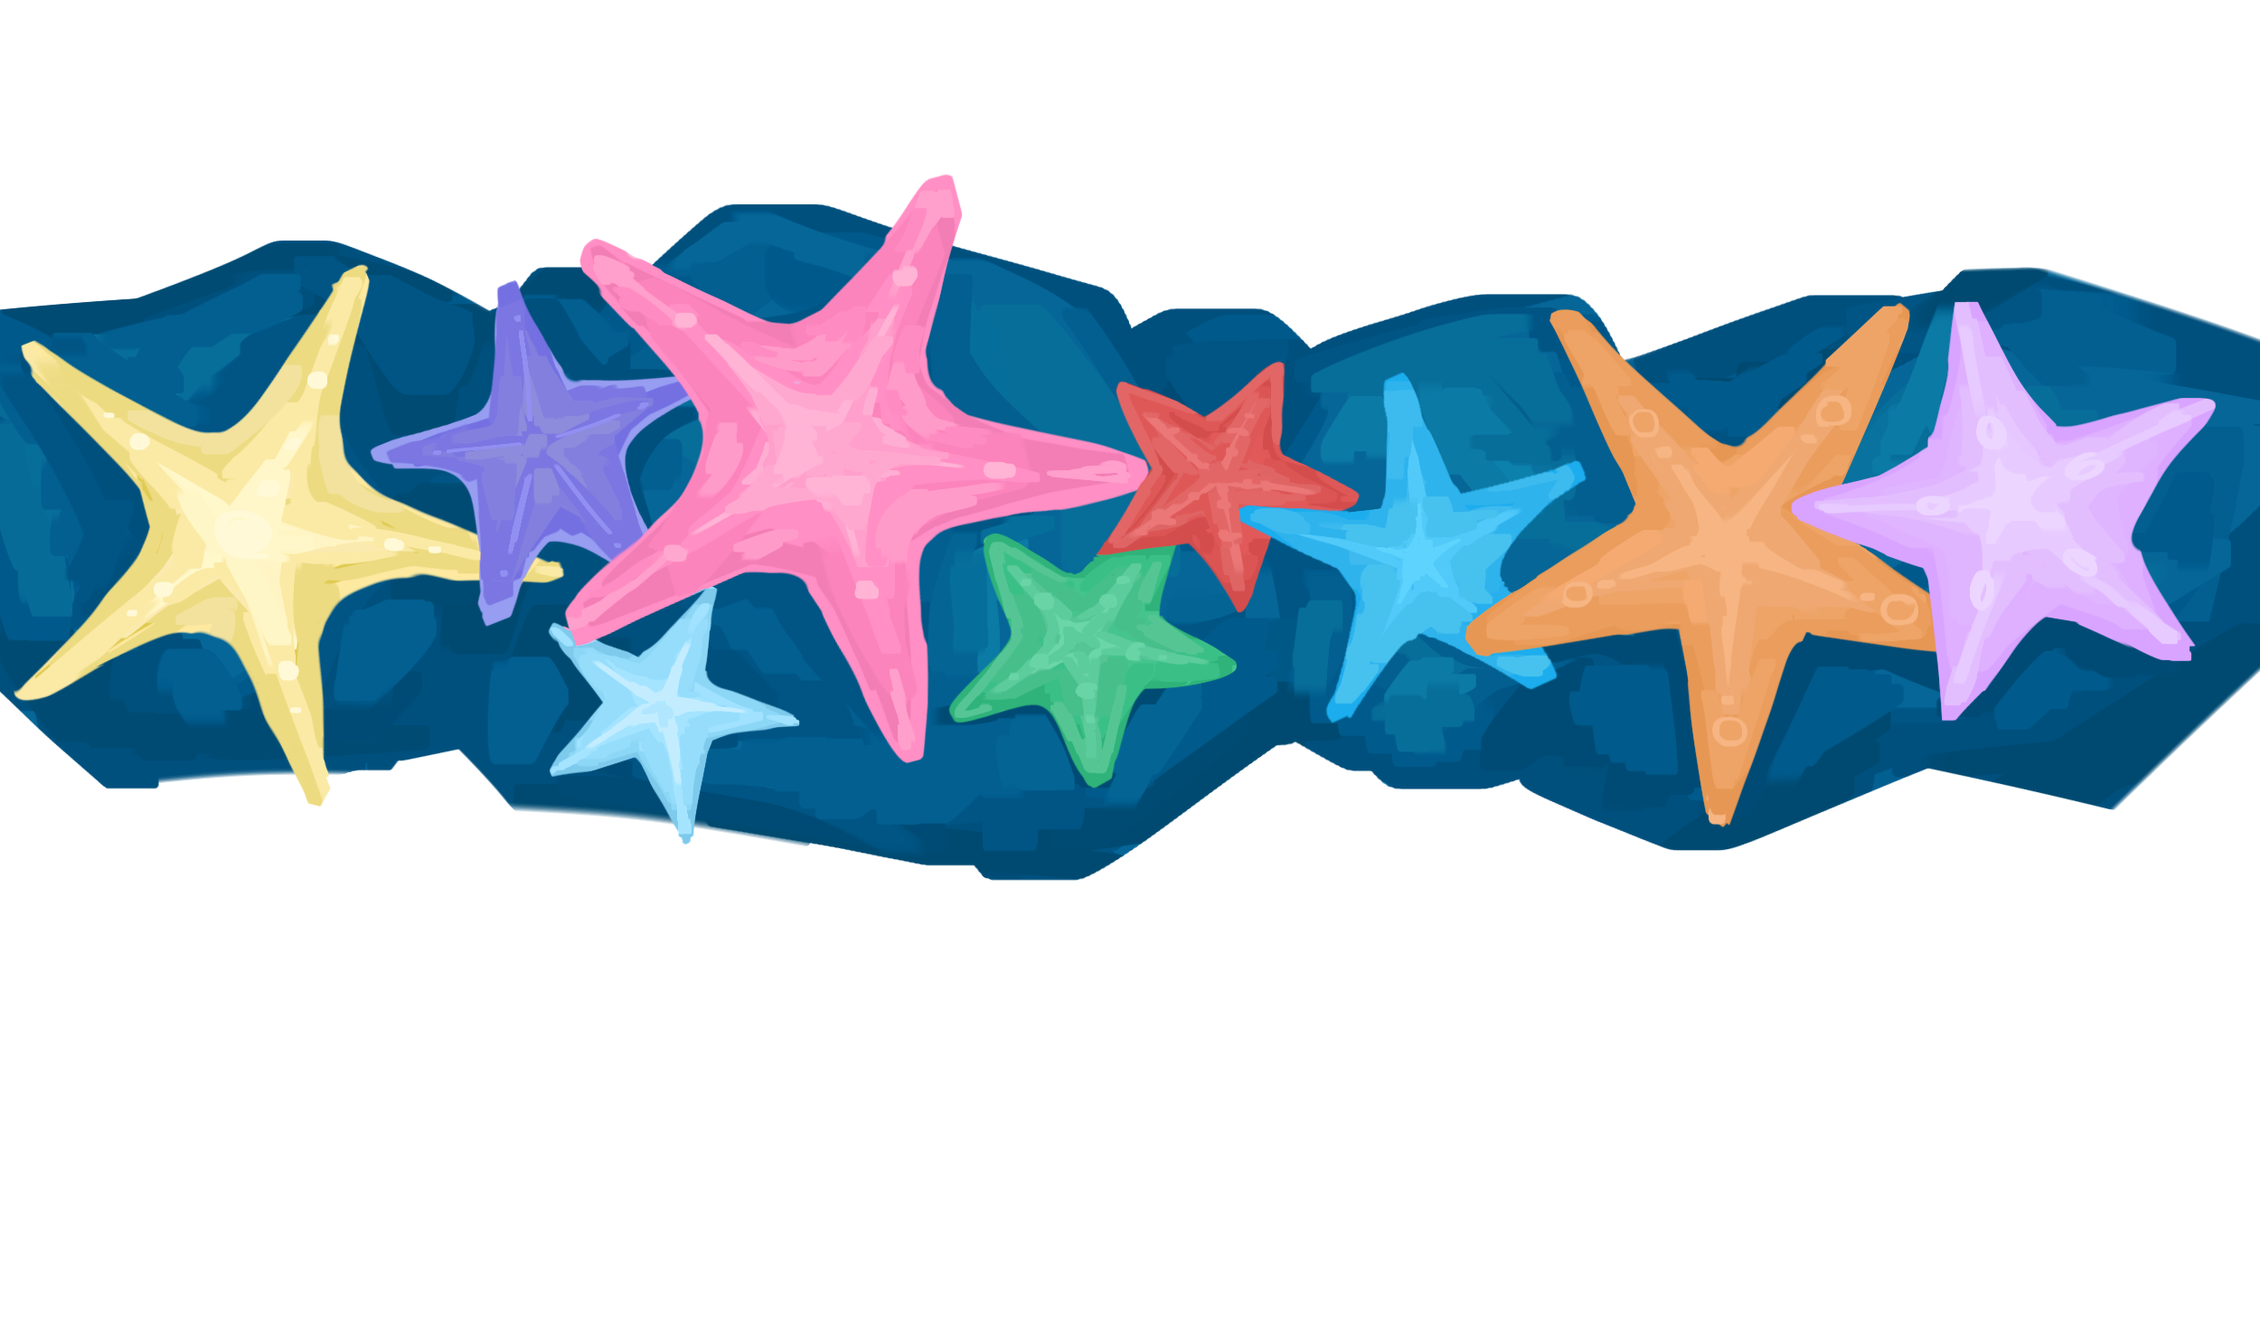
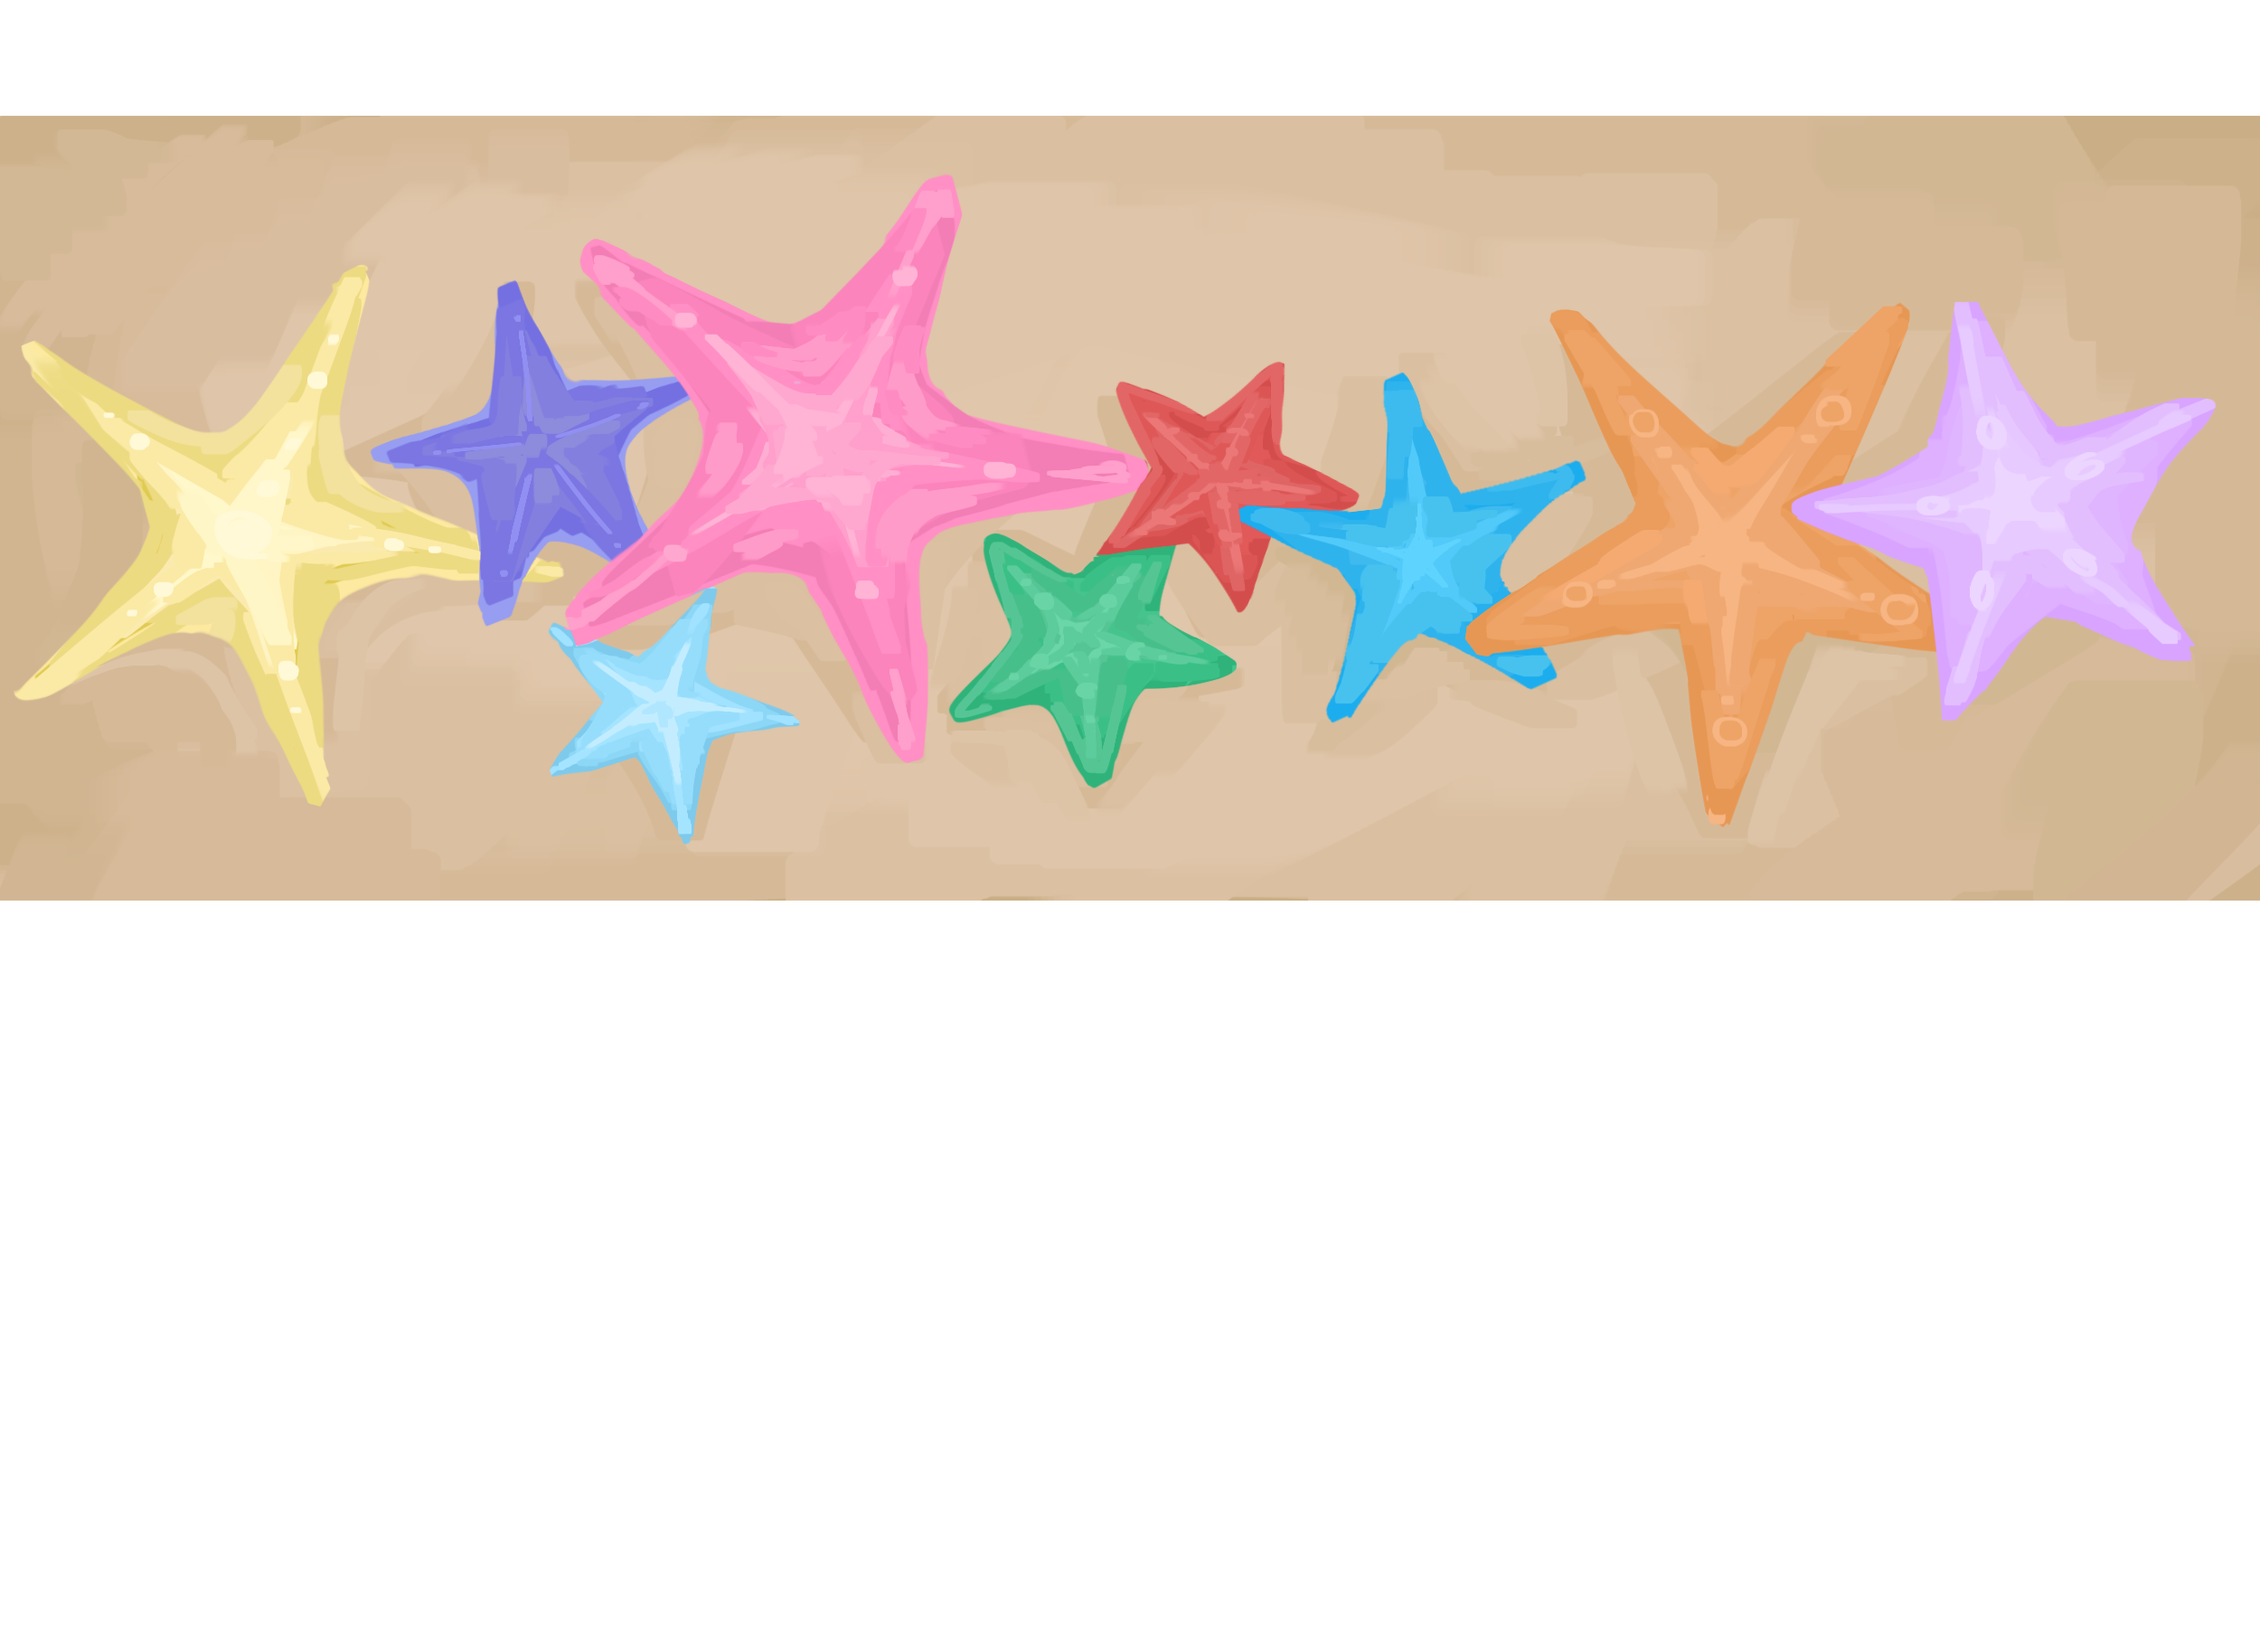
Fix transition on landing

diff --git a/atlantis/atlantis_site/templates/atlantis_site/home.html b/atlantis/atlantis_site/templates/atlantis_site/home.html
@@ -122,13 +122,37 @@
         }
 
 
+        /* The sand-and-starfish band that separates the landing from the
+           lagoon. It is drawn on the same 2500x1827 canvas as the lagoon art
+           but only rows 128–995 of it are painted; the rest is transparent.
+           The band is a section of its own, so it is sized to those 868 rows
+           alone — the image is laid in at full width and pulled up by the 128
+           rows of empty canvas above it (percentage margins resolve against
+           the width, so -5.12% is exactly those 128 of 2500 px at any size),
+           and the wrapper's overflow takes the empty canvas below. Nothing of
+           the landing above or the lagoon below is covered. */
+        #faq-transition {
+            aspect-ratio: 2500 / 868;
+            overflow: hidden;
+            line-height: 0;
+        }
+
+        #faq-transition img {
+            display: block;
+            width: 100%;
+            height: auto;
+            margin-top: -5.12%;
+        }
+
+
         /* The lagoon art is 2500x1827 and is laid in at the window's full
            width, so its height — and every offset measured off it — is a
-           fraction of the viewport width: the art's top edge lands 9.5vw down
-           and its bottom at 9.5 + 73.08 = 82.6vw, which is where min-height
-           comes from. The copy is sized off vw for the same reason, so the
-           questions keep their place on the water as the window changes
-           shape. See the media query further down for where that breaks. */
+           fraction of the viewport width: it starts at the section's top edge,
+           where the band above leaves off, and ends 73.08vw down, which is
+           where min-height comes from. The copy is sized off vw for the same
+           reason, so the questions keep their place on the water as the window
+           changes shape. See the media query further down for where that
+           breaks. */
         #faq {
             position: relative;
             box-sizing: border-box;
@@ -138,40 +162,24 @@
             background-color: #036890;
             background-image: url("{% static 'atlantis_site/assets/img/landing/background_faq.png' %}");
             background-repeat: no-repeat;
-            background-position: center 9.5vw;
+            background-position: center top;
             background-size: 100% auto;
 
-            /* Not the art's full 82.6vw: from 79.5% down the illustration is
-               a flat #036890 band, which starts 67.6vw in and is the same
+            /* Not the art's full 73.08vw: from 79.5% down the illustration is
+               a flat #036890 band, which starts 58.1vw in and is the same
                colour the footer below stands on. Ending the section inside
                that band hands the last stretch of it to the footer instead of
                leaving it as bare water, and the join is invisible. The same
                is true if a reader opens every question — the section grows,
                the art stops, and what shows past it is that colour. */
-            min-height: 69vw;
+            min-height: 59.5vw;
 
-            padding: 22.4% clamp(22px, 6vw, 80px) 0;
+            padding: 12.9% clamp(22px, 6vw, 80px) 0;
 
             overflow: hidden;
 
             display: flex;
             flex-direction: column;
-        }
-
-        #faq-transition {
-            position: absolute;
-            top: 0;
-            left: 0;
-            right: 0;
-            aspect-ratio: 2500 / 1462;
-            transform: translateY(-28.5%);
-
-            background-image: url("{% static 'atlantis_site/assets/img/landing/transition.png' %}");
-            background-repeat: no-repeat;
-            background-position: center top;
-            background-size: 100% auto;
-            pointer-events: none;
-            z-index: 0;
         }
 
         .faq-inner {
@@ -382,8 +390,8 @@
         @media (max-width: 820px) {
             #faq {
                 min-height: 0;
-                /* clears the art: 9.5vw of lead-in plus its 73.08vw height */
-                padding-top: calc(82.6vw + 1.6em);
+                /* clears the art, which is its own 73.08vw height */
+                padding-top: calc(73.08vw + 1.6em);
                 padding-bottom: 2.4em;
             }
 
@@ -422,9 +430,11 @@
             </div>
         </div>
 
-        <section id="faq">
-            <div id="faq-transition" aria-hidden="true"></div>
+        <div id="faq-transition" aria-hidden="true">
+            <img src="{% static 'atlantis_site/assets/img/landing/transition.png' %}" alt="">
+        </div>
 
+        <section id="faq">
             <div class="faq-inner">
                 <h2 id="faq-title">FAQ</h2>
 
